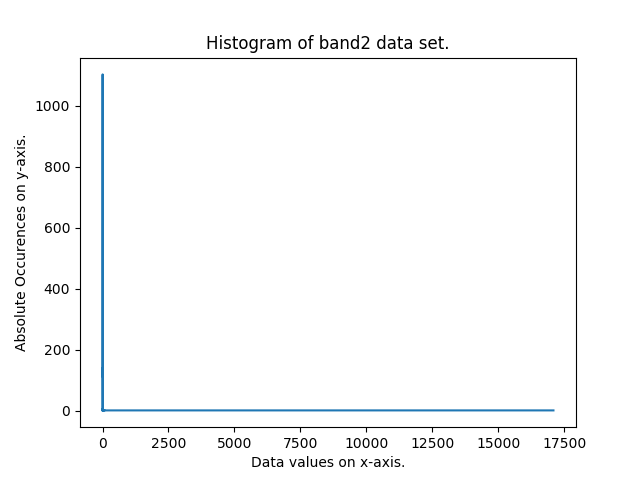
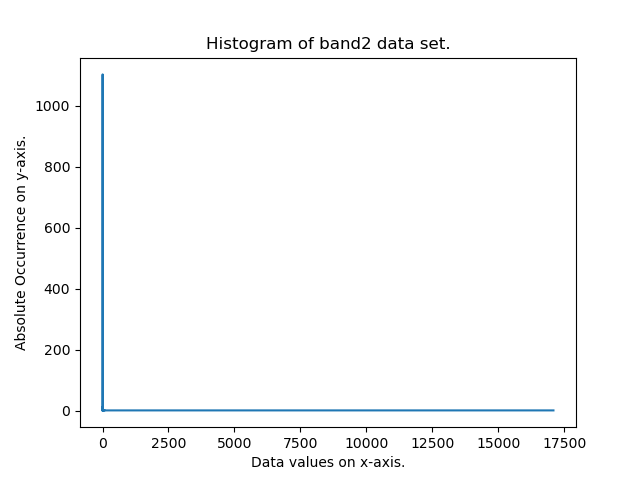
optimize histogram equalization code and added RGB image.

diff --git a/Assignments/Assignment 3/Equalization.py b/Assignments/Assignment 3/Equalization.py
@@ -1,24 +1,26 @@
+from typing import List
+
 import numpy as np
 import matplotlib.pyplot as plt
-from PIL import Image
-import matplotlib.cm as cm
-from math import log
-from collections import Counter
+import math
 
 rows, cols = (500, 500)
 (smin, smax) = (0, 255)
 maximumValueList = [0 for x in range(rows)]
 Trans = [[0 for x in range(cols)] for y in range(rows)]
+RGB_array = [[[0 for x in range(3)] for y in range(cols)] for z in range(rows)]
+print(RGB_array)
+
 
 # Read the band data from file start.
-def read_Data_From_File(filePath):
-    arr, lineData, removeQuote, splitData = ([],[],[],[])
+def read_data_from_file(filepath):
+    arr, lineData, removeQuote, splitData = ([], [], [], [])
 
-    with open(filePath,'r') as f:
+    with open(filepath, 'r') as f:
         lineData = f.readlines()
 
     for line in reversed(lineData):
-        removeQuote = line.replace('"',"")
+        removeQuote = line.replace('"', "")
         splitData.append(removeQuote.split(","))
         removeQuote = []
 
@@ -27,37 +29,38 @@ def read_Data_From_File(filePath):
             arr.append((float(item)))
     return arr
 
-band1_1d = read_Data_From_File("./orion/i170b1h0_t0.txt")
-band1_2d = np.asarray(band1_1d).reshape(rows,cols)
-band2_1d = read_Data_From_File("./orion/i170b2h0_t0.txt")
-band2_2d = np.asarray(band2_1d).reshape(rows,cols)
-band3_1d = read_Data_From_File("./orion/i170b3h0_t0.txt")
-band3_2d = np.asarray(band3_1d).reshape(rows,cols)
-band4_1d = read_Data_From_File("./orion/i170b4h0_t0.txt")
-band4_2d = np.asarray(band4_1d).reshape(rows,cols)
+
+band1_1d = read_data_from_file("./orion/i170b1h0_t0.txt")
+band1_2d = np.asarray(band1_1d).reshape(rows, cols)
+band2_1d = read_data_from_file("./orion/i170b2h0_t0.txt")
+band2_2d = np.asarray(band2_1d).reshape(rows, cols)
+band3_1d = read_data_from_file("./orion/i170b3h0_t0.txt")
+band3_2d = np.asarray(band3_1d).reshape(rows, cols)
+band4_1d = read_data_from_file("./orion/i170b4h0_t0.txt")
+band4_2d = np.asarray(band4_1d).reshape(rows, cols)
 # Read the band data from file end.
 
-# Calculate Max., Min., Mean and Varience value for Band2 start.
+# Calculate Max., Min., Mean and Variance value for Band2 start.
 maxValue = max(band2_1d)
 print("Maximum value = ", maxValue)
 
 minValue = min(band2_1d)
 print("Minimum value = ", minValue)
- 
+
 meanValue = np.mean(band2_1d)
 print("Mean value = ", meanValue)
- 
+
 varianceValue = np.var(band2_1d)
-print("Varience value = ",varianceValue)
-# Calculate Max., Min., Mean and Varience value for Band2 End.
+print("Variance value = ", varianceValue)
+# Calculate Max., Min., Mean and Variance value for Band2 End.
 
 # Profile line through the Max. value of band2 data start.
 for i in range(rows):
     if max(band2_2d[i]) > max(maximumValueList):
         maximumValueList = []
         maximumValueList = band2_2d[i]
-line = plt.figure(1)
-plt.plot(maximumValueList,'tab:green')
+# line = plt.figure(1)
+plt.plot(maximumValueList, 'tab:green')
 plt.title("Profile line through the line with the maximum value of Band2 2D data set.")
 plt.xlabel('x-axis.')
 plt.ylabel('y-axis.')
@@ -66,90 +69,114 @@ plt.show()
 # Profile line through the Max. value of band2 data end.
 
 # Display Histogram of band2 Data start.
-def find_Absolute_Occurence_OfValue(r_arr, oneD_Band):
-    result = []
-    r_arr_length = len(r_arr)        
-    for i in range(r_arr_length):
-        result.append(oneD_Band.count(r_arr[i]))
-    return result
-
-hist = plt.figure(2)
-rlist = np.unique(band2_1d)
-slist = find_Absolute_Occurence_OfValue(rlist, band2_1d)
-plt.plot(rlist, slist)
+# hist = plt.figure(2)
+r_list, abs_occ_values = np.unique(band2_1d, return_counts=True)
+plt.plot(r_list, abs_occ_values)
 plt.title('Histogram of band2 data set.')
 plt.xlabel('Data values on x-axis.')
-plt.ylabel('Absolute Occurences on y-axis.')
+plt.ylabel('Absolute Occurrence on y-axis.')
 plt.savefig("Histogram.png")
 plt.show()
 # Display Histogram of band2 Data End.
 
 # Rescale values to range between 0 and 255 using transformation start.
-tra = plt.figure(3)
-constant = smax / (log(maxValue + 1, 2))
+# tra = plt.figure(3)
+constant = smax / (math.log(maxValue + 1, 2))
 for m in range(rows):
     for n in range(cols):
-        Trans[m][n] = (constant * (log(band2_2d[m][n] + 1, 2)))
+        Trans[m][n] = (constant * (math.log(band2_2d[m][n] + 1, 2)))
 Trans_1d = np.asarray(Trans).flatten()
 min_Trans = min(Trans_1d)
 max_Trans = max(Trans_1d)
-img = plt.imshow(Trans, aspect= 'equal', cmap= cm.get_cmap(name='magma'), vmin= min_Trans, vmax= max_Trans)
+img = plt.imshow(Trans, aspect='equal', cmap='gray', vmin=min_Trans, vmax=max_Trans)
 ax = plt.gca()
-ax.xaxis.tick_top()
-cb = plt.colorbar(img, orientation= 'vertical', ax= ax)
+cb = plt.colorbar(img, orientation='vertical', ax=ax)
 cb.set_ticks([min_Trans, max_Trans])
+ax.set_xticks([0, 100, 200, 300, 400, 500])
+ax.set_yticks([0, 100, 200, 300, 400, 500])
+ax.xaxis.tick_top()
 plt.title('Transformation of band2 2D Data set in range between 0 and 255.')
 plt.savefig('Transformation.png')
 plt.show()
 # Rescale values to range between 0 and 255 using transformation end.
 
+
 # Histogram equalization on each of the four bands start.                    
-def HistogramEqualization(band_1d):
-    result, r_values, absolute_values, relative_values, CDF_values, s_values, data = ([], [], [], [], [], [], [])   
+def histogram_equalization(oned_band):
+    r_values, absolute_values, relative_values, CDF_values, s_values = ([], [], [], [], [])
 
-    result = Counter(band_1d)
-    r_values = list(result.keys())
-    absolute_values = list(result.values())    
+    r_values, absolute_values = np.unique(oned_band, return_counts=True)
     r_values_length = len(r_values)
-    data = band_1d
+    band_1d_length = len(oned_band)
 
-    for i in range(r_values_length):        
+    for i in range(r_values_length):
         relative_values.append((absolute_values[i] / (rows * cols)))
-        if i == 0:            
+        if i == 0:
             CDF_values.append(relative_values[i])
         else:
-            CDF_values.append(CDF_values[i-1] + relative_values[i])
-        
+            CDF_values.append(CDF_values[i - 1] + relative_values[i])
         s_values.append(CDF_values[i] * smax)
-        data = [s_values[i] if item == r_values[i] else item for item in data]
-    return data
 
-fig, ((ax1, ax2), (ax3, ax4)) = plt.subplots(2, 2)
+    for p in range(band_1d_length):
+        for q in range(r_values_length):
+            if oned_band[p] == r_values[q]:
+                oned_band[p] = s_values[q]
+                break
+    return oned_band
 
-hist_equ_band1 = np.asarray(HistogramEqualization(band1_1d)).reshape(rows, cols)  
-ax1.imshow(hist_equ_band1, aspect= 'equal', cmap= cm.get_cmap(name='magma'))
-ax1.set_title('Band1.')
-# ax1.axis('off')
-print('band1')
 
-hist_equ_band2 = np.asarray(HistogramEqualization(band2_1d)).reshape(rows,cols)
-ax2.imshow(hist_equ_band2, aspect= 'equal', cmap= cm.get_cmap(name='magma'))
-ax2.set_title('Band2.')
-# ax2.axis('off')
-print('band2')
+hist_equ_band1 = np.asarray(histogram_equalization(band1_1d)).reshape(rows, cols)
+plt.imshow(hist_equ_band1, aspect='equal', cmap='gray')
+ax = plt.gca()
+ax.set_xticks([0, 100, 200, 300, 400, 500])
+ax.set_yticks([0, 100, 200, 300, 400, 500])
+ax.xaxis.tick_top()
+plt.title('Histogram equalization of Band1.')
+plt.savefig("HistogramEqualization_Band1.png")
+plt.show()
 
-hist_equ_band3 = np.asarray(HistogramEqualization(band3_1d)).reshape(rows,cols)
-ax3.imshow(hist_equ_band3, aspect= 'equal', cmap= cm.get_cmap(name='magma'))
-ax3.set_title('Band3.')
-# ax3.axis('off')
-print('band3')
+hist_equ_band2 = np.asarray(histogram_equalization(band2_1d)).reshape(rows, cols)
+plt.imshow(hist_equ_band2, aspect='equal', cmap='gray')
+ax = plt.gca()
+ax.set_xticks([0, 100, 200, 300, 400, 500])
+ax.set_yticks([0, 100, 200, 300, 400, 500])
+ax.xaxis.tick_top()
+plt.title('Histogram equalization of Band2.')
+plt.savefig("HistogramEqualization_Band2.png")
+plt.show()
 
-hist_equ_band4 = np.asarray(HistogramEqualization(band4_1d)).reshape(rows,cols)
-ax4.imshow(hist_equ_band4, aspect= 'equal', cmap= cm.get_cmap(name='magma'))
-ax4.set_title('Band4.')
-# ax4.axis('off')
-print('band4')
+hist_equ_band3 = np.asarray(histogram_equalization(band3_1d)).reshape(rows, cols)
+plt.imshow(hist_equ_band3, aspect='equal', cmap='gray')
+ax = plt.gca()
+ax.set_xticks([0, 100, 200, 300, 400, 500])
+ax.set_yticks([0, 100, 200, 300, 400, 500])
+ax.xaxis.tick_top()
+plt.title('Histogram equalization of Band3.')
+plt.savefig("HistogramEqualization_Band3.png")
+plt.show()
 
-plt.savefig("HistogramEqualization.png")
+hist_equ_band4 = np.asarray(histogram_equalization(band4_1d)).reshape(rows, cols)
+plt.imshow(hist_equ_band4, aspect='equal', cmap='gray')
+ax = plt.gca()
+ax.set_xticks([0, 100, 200, 300, 400, 500])
+ax.set_yticks([0, 100, 200, 300, 400, 500])
+ax.xaxis.tick_top()
+plt.title('Histogram equalization of Band4.')
+plt.savefig("HistogramEqualization_Band4.png")
 plt.show()
 # Histogram equalization on each of the four bands end.
+
+# Combine Histo-equalized data set to an RGB-image (b4=r, b3=g, b1=b) start.
+for i in range(rows):
+    for j in range(cols):
+        RGB_array[i][j][0] = hist_equ_band4[i][j]
+        RGB_array[i][j][1] = hist_equ_band3[i][j]
+        RGB_array[i][j][2] = hist_equ_band1[i][j]
+plt.imshow(np.uint8(RGB_array), aspect='equal')
+ax = plt.gca()
+ax.set_xticks([0, 100, 200, 300, 400, 500])
+ax.set_yticks([0, 100, 200, 300, 400, 500])
+ax.xaxis.tick_top()
+plt.title('Combine Histo-equalized data set to an RGB-image.')
+plt.savefig("RGB_image.png")
+plt.show()
